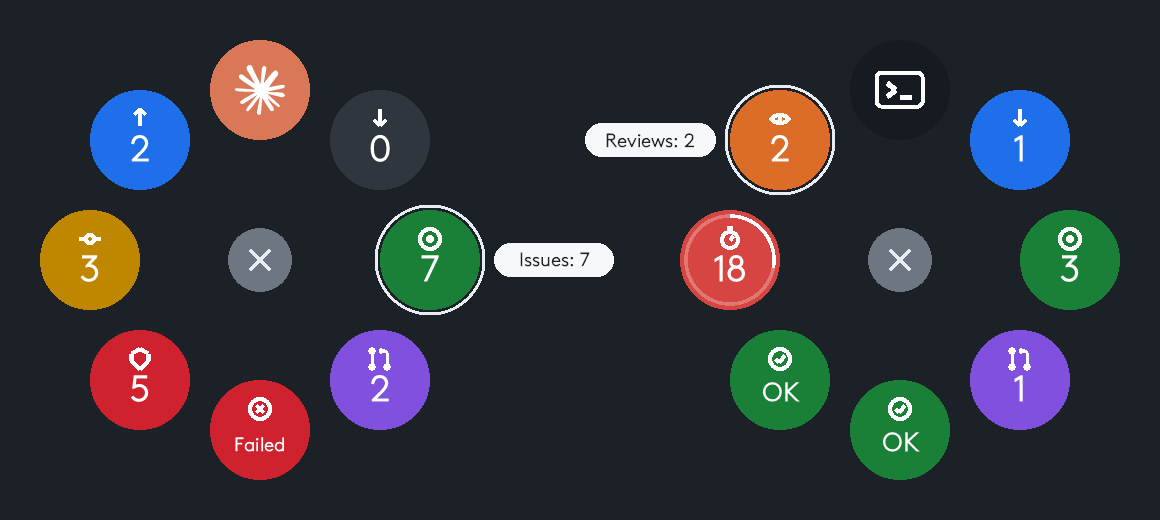
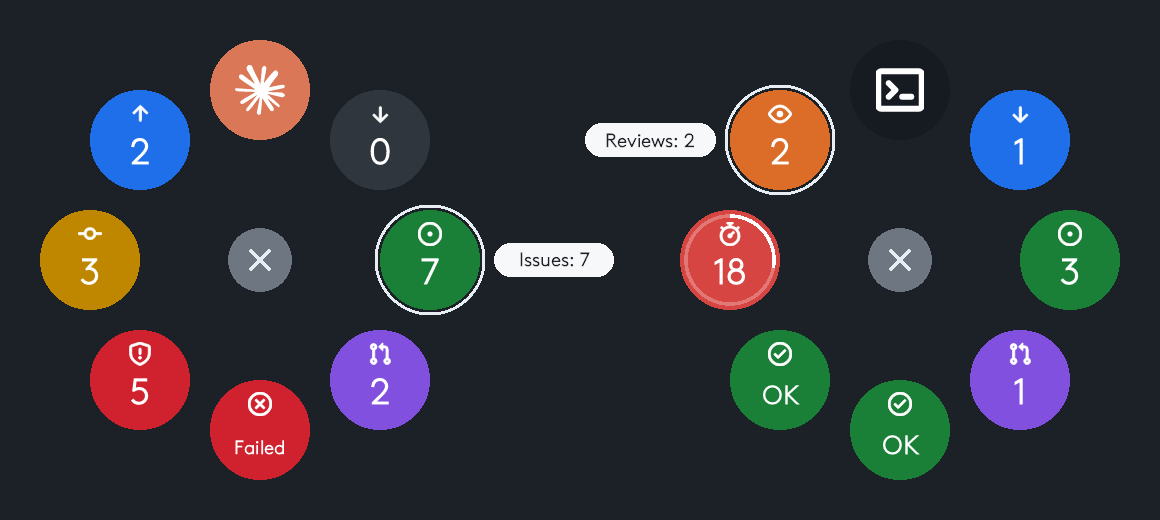
Draw the bubble pictograms from Primer octicons
SVG octicons, drawn at the size of the image, keep smooth edges in the small images the ring asks for; the line drawings stay as a fallback. The pictogram sits higher above the value. README images rendered again.

diff --git a/src/MxDevKitPlugin/Octicons.cs b/src/MxDevKitPlugin/Octicons.cs
@@ -1,0 +1,37 @@
+namespace Loupedeck.MxDevKitPlugin;
+
+using System.Collections.Concurrent;
+
+// The pictograms of the bubbles: GitHub's Primer octicons (MIT, https://primer.style/octicons), 16 px
+// versions, drawn from SVG at the size of the image so that their edges stay smooth in the ring.
+// A thin stroke thickens them a little: the ring shows the images at half size or less.
+public static class Octicons
+{
+    private static readonly Dictionary<Glyph, string> Paths = new()
+    {
+        [Glyph.Issue] = "M8 9.5a1.5 1.5 0 1 0 0-3 1.5 1.5 0 0 0 0 3Z M8 0a8 8 0 1 1 0 16A8 8 0 0 1 8 0ZM1.5 8a6.5 6.5 0 1 0 13 0 6.5 6.5 0 0 0-13 0Z", // issue-opened
+        [Glyph.PullRequest] = "M1.5 3.25a2.25 2.25 0 1 1 3 2.122v5.256a2.251 2.251 0 1 1-1.5 0V5.372A2.25 2.25 0 0 1 1.5 3.25Zm5.677-.177L9.573.677A.25.25 0 0 1 10 .854V2.5h1A2.5 2.5 0 0 1 13.5 5v5.628a2.251 2.251 0 1 1-1.5 0V5a1 1 0 0 0-1-1h-1v1.646a.25.25 0 0 1-.427.177L7.177 3.427a.25.25 0 0 1 0-.354ZM3.75 2.5a.75.75 0 1 0 0 1.5.75.75 0 0 0 0-1.5Zm0 9.5a.75.75 0 1 0 0 1.5.75.75 0 0 0 0-1.5Zm8.25.75a.75.75 0 1 0 1.5 0 .75.75 0 0 0-1.5 0Z", // git-pull-request
+        [Glyph.Check] = "M0 8a8 8 0 1 1 16 0A8 8 0 0 1 0 8Zm1.5 0a6.5 6.5 0 1 0 13 0 6.5 6.5 0 0 0-13 0Zm10.28-1.72-4.5 4.5a.75.75 0 0 1-1.06 0l-2-2a.751.751 0 0 1 .018-1.042.751.751 0 0 1 1.042-.018l1.47 1.47 3.97-3.97a.751.751 0 0 1 1.042.018.751.751 0 0 1 .018 1.042Z", // check-circle
+        [Glyph.Cross] = "M2.344 2.343h-.001a8 8 0 0 1 11.314 11.314A8.002 8.002 0 0 1 .234 10.089a8 8 0 0 1 2.11-7.746Zm1.06 10.253a6.5 6.5 0 1 0 9.108-9.275 6.5 6.5 0 0 0-9.108 9.275ZM6.03 4.97 8 6.94l1.97-1.97a.749.749 0 0 1 1.275.326.749.749 0 0 1-.215.734L9.06 8l1.97 1.97a.749.749 0 0 1-.326 1.275.749.749 0 0 1-.734-.215L8 9.06l-1.97 1.97a.749.749 0 0 1-1.275-.326.749.749 0 0 1 .215-.734L6.94 8 4.97 6.03a.751.751 0 0 1 .018-1.042.751.751 0 0 1 1.042-.018Z", // x-circle
+        [Glyph.Clock] = "M8 0a8 8 0 1 1 0 16A8 8 0 0 1 8 0ZM1.5 8a6.5 6.5 0 1 0 13 0 6.5 6.5 0 0 0-13 0Zm7-3.25v2.992l2.028.812a.75.75 0 0 1-.557 1.392l-2.5-1A.751.751 0 0 1 7 8.25v-3.5a.75.75 0 0 1 1.5 0Z", // clock
+        [Glyph.Timer] = "M5.75.75A.75.75 0 0 1 6.5 0h3a.75.75 0 0 1 0 1.5h-.75v1l-.001.041a6.724 6.724 0 0 1 3.464 1.435l.007-.006.75-.75a.749.749 0 0 1 1.275.326.749.749 0 0 1-.215.734l-.75.75-.006.007a6.75 6.75 0 1 1-10.548 0L2.72 5.03l-.75-.75a.751.751 0 0 1 .018-1.042.751.751 0 0 1 1.042-.018l.75.75.007.006A6.72 6.72 0 0 1 7.25 2.541V1.5H6.5a.75.75 0 0 1-.75-.75ZM8 14.5a5.25 5.25 0 1 0-.001-10.501A5.25 5.25 0 0 0 8 14.5Zm.389-6.7 1.33-1.33a.75.75 0 1 1 1.061 1.06L9.45 8.861A1.503 1.503 0 0 1 8 10.75a1.499 1.499 0 1 1 .389-2.95Z", // stopwatch
+        [Glyph.Shield] = "M7.467.133a1.748 1.748 0 0 1 1.066 0l5.25 1.68A1.75 1.75 0 0 1 15 3.48V7c0 1.566-.32 3.182-1.303 4.682-.983 1.498-2.585 2.813-5.032 3.855a1.697 1.697 0 0 1-1.33 0c-2.447-1.042-4.049-2.357-5.032-3.855C1.32 10.182 1 8.566 1 7V3.48a1.75 1.75 0 0 1 1.217-1.667Zm.61 1.429a.25.25 0 0 0-.153 0l-5.25 1.68a.25.25 0 0 0-.174.238V7c0 1.358.275 2.666 1.057 3.86.784 1.194 2.121 2.34 4.366 3.297a.196.196 0 0 0 .154 0c2.245-.956 3.582-2.104 4.366-3.298C13.225 9.666 13.5 8.36 13.5 7V3.48a.251.251 0 0 0-.174-.237l-5.25-1.68ZM8.75 4.75v3a.75.75 0 0 1-1.5 0v-3a.75.75 0 0 1 1.5 0ZM9 10.5a1 1 0 1 1-2 0 1 1 0 0 1 2 0Z", // shield
+        [Glyph.Commit] = "M11.93 8.5a4.002 4.002 0 0 1-7.86 0H.75a.75.75 0 0 1 0-1.5h3.32a4.002 4.002 0 0 1 7.86 0h3.32a.75.75 0 0 1 0 1.5Zm-1.43-.75a2.5 2.5 0 1 0-5 0 2.5 2.5 0 0 0 5 0Z", // git-commit
+        [Glyph.ArrowUp] = "M3.47 7.78a.75.75 0 0 1 0-1.06l4.25-4.25a.75.75 0 0 1 1.06 0l4.25 4.25a.751.751 0 0 1-.018 1.042.751.751 0 0 1-1.042.018L9 4.81v7.44a.75.75 0 0 1-1.5 0V4.81L4.53 7.78a.75.75 0 0 1-1.06 0Z", // arrow-up
+        [Glyph.ArrowDown] = "M13.03 8.22a.75.75 0 0 1 0 1.06l-4.25 4.25a.75.75 0 0 1-1.06 0L3.47 9.28a.751.751 0 0 1 .018-1.042.751.751 0 0 1 1.042-.018l2.97 2.97V3.75a.75.75 0 0 1 1.5 0v7.44l2.97-2.97a.75.75 0 0 1 1.06 0Z", // arrow-down
+        [Glyph.Eye] = "M8 2c1.981 0 3.671.992 4.933 2.078 1.27 1.091 2.187 2.345 2.637 3.023a1.62 1.62 0 0 1 0 1.798c-.45.678-1.367 1.932-2.637 3.023C11.67 13.008 9.981 14 8 14c-1.981 0-3.671-.992-4.933-2.078C1.797 10.83.88 9.576.43 8.898a1.62 1.62 0 0 1 0-1.798c.45-.677 1.367-1.931 2.637-3.022C4.33 2.992 6.019 2 8 2ZM1.679 7.932a.12.12 0 0 0 0 .136c.411.622 1.241 1.75 2.366 2.717C5.176 11.758 6.527 12.5 8 12.5c1.473 0 2.825-.742 3.955-1.715 1.124-.967 1.954-2.096 2.366-2.717a.12.12 0 0 0 0-.136c-.412-.621-1.242-1.75-2.366-2.717C10.824 4.242 9.473 3.5 8 3.5c-1.473 0-2.825.742-3.955 1.715-1.124.967-1.954 2.096-2.366 2.717ZM8 10a2 2 0 1 1-.001-3.999A2 2 0 0 1 8 10Z", // eye
+        [Glyph.Bell] = "M8 16a2 2 0 0 0 1.985-1.75c.017-.137-.097-.25-.235-.25h-3.5c-.138 0-.252.113-.235.25A2 2 0 0 0 8 16ZM3 5a5 5 0 0 1 10 0v2.947c0 .05.015.098.042.139l1.703 2.555A1.519 1.519 0 0 1 13.482 13H2.518a1.516 1.516 0 0 1-1.263-2.36l1.703-2.554A.255.255 0 0 0 3 7.947Zm5-3.5A3.5 3.5 0 0 0 4.5 5v2.947c0 .346-.102.683-.294.97l-1.703 2.556a.017.017 0 0 0-.003.01l.001.006c0 .002.002.004.004.006l.006.004.007.001h10.964l.007-.001.006-.004.004-.006.001-.007a.017.017 0 0 0-.003-.01l-1.703-2.554a1.745 1.745 0 0 1-.294-.97V5A3.5 3.5 0 0 0 8 1.5Z", // bell
+        [Glyph.At] = "M8 .5a7.499 7.499 0 0 1 7.499 7.462l.002.038v1.164a2.612 2.612 0 0 1-4.783 1.454A3.763 3.763 0 0 1 8 11.776 3.776 3.776 0 1 1 11.776 8v1.164a1.112 1.112 0 0 0 2.225 0L14 8a6 6 0 1 0-3.311 5.365.75.75 0 0 1 .673 1.341A7.5 7.5 0 1 1 8 .5Zm0 5.225a2.275 2.275 0 1 0 0 4.552 2.275 2.275 0 0 0 0-4.552Z", // mention
+        [Glyph.Comment] = "M1 2.75C1 1.784 1.784 1 2.75 1h10.5c.966 0 1.75.784 1.75 1.75v7.5A1.75 1.75 0 0 1 13.25 12H9.06l-2.573 2.573A1.458 1.458 0 0 1 4 13.543V12H2.75A1.75 1.75 0 0 1 1 10.25Zm1.75-.25a.25.25 0 0 0-.25.25v7.5c0 .138.112.25.25.25h2a.75.75 0 0 1 .75.75v2.19l2.72-2.72a.749.749 0 0 1 .53-.22h4.5a.25.25 0 0 0 .25-.25v-7.5a.25.25 0 0 0-.25-.25Z", // comment
+        [Glyph.Prompt] = "M0 2.75C0 1.784.784 1 1.75 1h12.5c.966 0 1.75.784 1.75 1.75v10.5A1.75 1.75 0 0 1 14.25 15H1.75A1.75 1.75 0 0 1 0 13.25Zm1.75-.25a.25.25 0 0 0-.25.25v10.5c0 .138.112.25.25.25h12.5a.25.25 0 0 0 .25-.25V2.75a.25.25 0 0 0-.25-.25ZM7.25 8a.749.749 0 0 1-.22.53l-2.25 2.25a.749.749 0 0 1-1.275-.326.749.749 0 0 1 .215-.734L5.44 8 3.72 6.28a.749.749 0 0 1 .326-1.275.749.749 0 0 1 .734.215l2.25 2.25c.141.14.22.331.22.53Zm1.5 1.5h3a.75.75 0 0 1 0 1.5h-3a.75.75 0 0 1 0-1.5Z", // terminal
+    };
+
+    private static readonly ConcurrentDictionary<(Glyph, int), BitmapImage?> Cache = new();
+
+    // The pictogram at px x px, in white. Null when there is none or Skia could not read it.
+    public static BitmapImage? Image(Glyph glyph, int px) =>
+        Cache.GetOrAdd((glyph, px), key => Paths.ContainsKey(key.Item1) && BitmapImage.TryCreateFromSvg(Svg(key.Item1, key.Item2), out var image) ? image : null);
+
+    public static string Svg(Glyph glyph, int px) =>
+        $"<svg xmlns=\"http://www.w3.org/2000/svg\" width=\"{px}\" height=\"{px}\" viewBox=\"0 0 16 16\"><path fill=\"#FFFFFF\" stroke=\"#FFFFFF\" stroke-width=\"0.5\" stroke-linejoin=\"round\" d=\"{Paths[glyph]}\"/></svg>";
+}

diff --git a/src/MxDevKitPlugin/BubblePainter.cs b/src/MxDevKitPlugin/BubblePainter.cs
@@ -49,14 +49,14 @@ public static class BubblePainter
 
         if (bubble.Glyph != Glyph.None)
         {
-            DrawGlyph(b, bubble.Glyph, w / 2f, h * 0.29f, s * 0.1f, stroke2);
+            DrawGlyph(b, bubble.Glyph, w / 2f, h * 0.24f, s * 0.1f, stroke2);
         }
 
         // Numbers very big, short words a bit less, longer words smaller still.
         var value = bubble.Value;
         var number = char.IsDigit(value[0]);
         var size = number && value.Length <= 2 ? s * 0.36 : value.Length <= 4 ? s * 0.26 : value.Length <= 9 ? s * 0.19 : s * 0.16;
-        b.DrawText(value, 0, (int)(h * 0.45), w, (int)(h * 0.42), White, (int)size);
+        b.DrawText(value, 0, (int)(h * 0.48), w, (int)(h * 0.42), White, (int)size);
     }
 
     // The agent's mark, big in the middle, or small above a word ("Install").
@@ -118,9 +118,26 @@ public static class BubblePainter
         }
     }
 
-    // Line pictograms in the spirit of GitHub's octicons. (cx, cy): centre, r: half size, t: stroke.
+    // A pictogram: the octicon, or the same shape in lines if Skia cannot read the SVG.
+    // (cx, cy): centre, r: half size, t: stroke of the lines.
     public static void DrawGlyph(BitmapBuilder b, Glyph glyph, float cx, float cy, float r, float t)
     {
+        var px = Math.Max(1, (int)MathF.Round(r * 2.4f));
+        if (Octicons.Image(glyph, px) is { } image)
+        {
+            b.DrawImage(image, (int)MathF.Round(cx - px / 2f), (int)MathF.Round(cy - px / 2f), px, px);
+            return;
+        }
+
+        DrawLineGlyph(b, glyph, cx, cy, r, t);
+    }
+
+    private static void DrawLineGlyph(BitmapBuilder b, Glyph glyph, float cx, float cy, float r, float t)
+    {
+        // Circles are drawn on whole pixels: a fractional centre would leave the lines of a glyph
+        // a pixel away from its circles in the small images the ring asks for.
+        cx = MathF.Round(cx);
+        cy = MathF.Round(cy);
         var c = White;
         switch (glyph)
         {

diff --git a/README.fr.md b/README.fr.md
@@ -245,7 +245,7 @@ La logique vit dans `src/MxDevKit.Core`, avec ses tests. `src/MxDevKitPlugin` es
 
 ## Crédits et licence
 
-Construit sur le [Logi Actions SDK](https://logitech.github.io/actions-sdk-docs/). Les vibrations des scripts passent par le [Haptic Web Plugin](https://github.com/Fallstop/HapticWebPlugin) de Jasper M-W, licence MIT. Les installeurs le téléchargent depuis ses propres releases ; il ne fait pas partie de ce dépôt. Les logos des agents viennent de [Simple Icons](https://simpleicons.org) (Claude ; GitHub Copilot vient des [Primer octicons](https://primer.style/octicons) de GitHub) et de [Lobe Icons](https://github.com/lobehub/lobe-icons) (Codex, Gemini).
+Construit sur le [Logi Actions SDK](https://logitech.github.io/actions-sdk-docs/). Les vibrations des scripts passent par le [Haptic Web Plugin](https://github.com/Fallstop/HapticWebPlugin) de Jasper M-W, licence MIT. Les installeurs le téléchargent depuis ses propres releases ; il ne fait pas partie de ce dépôt. Les pictogrammes des bulles sont les [Primer octicons](https://primer.style/octicons) de GitHub, licence MIT. Les logos des agents viennent de [Simple Icons](https://simpleicons.org) (Claude ; GitHub Copilot vient des [Primer octicons](https://primer.style/octicons) de GitHub) et de [Lobe Icons](https://github.com/lobehub/lobe-icons) (Codex, Gemini).
 
 Logitech, Logi, MX Master, Logi Options+ et Actions Ring sont des marques de Logitech. Claude et Claude Code sont des marques d'Anthropic, Codex d'OpenAI, Gemini de Google, GitHub Copilot de GitHub. Leurs logos servent uniquement à désigner l'outil que lance chaque bulle.
 

diff --git a/README.md b/README.md
@@ -243,7 +243,7 @@ The logic lives in `src/MxDevKit.Core`, with its tests. `src/MxDevKitPlugin` is 
 
 ## Credits and license
 
-Built on the [Logi Actions SDK](https://logitech.github.io/actions-sdk-docs/). Script vibrations go through the [Haptic Web Plugin](https://github.com/Fallstop/HapticWebPlugin) by Jasper M-W, MIT license. The installers download it from its own releases; it is not part of this repository. The agent marks come from [Simple Icons](https://simpleicons.org) (Claude, GitHub Copilot from GitHub's [Primer octicons](https://primer.style/octicons)) and [Lobe Icons](https://github.com/lobehub/lobe-icons) (Codex, Gemini).
+Built on the [Logi Actions SDK](https://logitech.github.io/actions-sdk-docs/). Script vibrations go through the [Haptic Web Plugin](https://github.com/Fallstop/HapticWebPlugin) by Jasper M-W, MIT license. The installers download it from its own releases; it is not part of this repository. The pictograms of the bubbles are GitHub's [Primer octicons](https://primer.style/octicons), MIT license. The agent marks come from [Simple Icons](https://simpleicons.org) (Claude, GitHub Copilot from GitHub's [Primer octicons](https://primer.style/octicons)) and [Lobe Icons](https://github.com/lobehub/lobe-icons) (Codex, Gemini).
 
 Logitech, Logi, MX Master, Logi Options+ and Actions Ring are trademarks of Logitech. Claude and Claude Code are trademarks of Anthropic, Codex of OpenAI, Gemini of Google, GitHub Copilot of GitHub. Their marks only name the tool each bubble starts.
 
